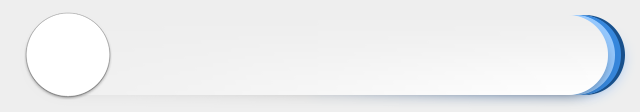
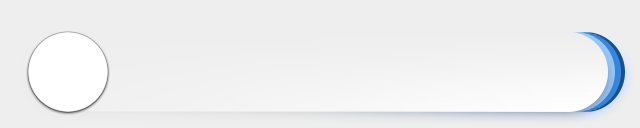
tune profilecard

diff --git a/EXFE/ProfileCard.m b/EXFE/ProfileCard.m
@@ -121,11 +121,11 @@
 - (void)drawContentView:(CGRect)r{
     CGRect b = [self bounds];
     // Rect caculation
-    int cardMargin = 13;
+    int cardMargin = 14;
     CGRect barnnerRect = CGRectMake(cardMargin, 16, b.size.width - cardMargin * 2, 40);
     
-    int avatarWidth = 42;
-    int avatarHeight = 42;
+    int avatarWidth = 40;
+    int avatarHeight = 40;
     CGRect avatarRect = CGRectMake(barnnerRect.origin.x, barnnerRect.origin.y, avatarWidth, avatarHeight);
     
     int paddingH = 8;
@@ -143,7 +143,7 @@
         [[UIImage imageNamed:@"portrait_default.png"] drawInRect:avatarRect];
     }
     
-    [[UIImage imageNamed:@"xlist_top.png"] drawInRect:CGRectMake(0, 9, CGRectGetWidth(b), CGRectGetHeight(b) - 9)];
+    [[UIImage imageNamed:@"xlist_top.png"] drawInRect:b];
     
     [[UIColor greenColor] set];
     CGContextRef currentContext = UIGraphicsGetCurrentContext();

diff --git a/EXFE/CrossesViewController.m b/EXFE/CrossesViewController.m
@@ -726,9 +726,9 @@
 - (CGFloat)tableView:(UITableView *)tableView heightForRowAtIndexPath:(NSIndexPath *)indexPath
 {
     if(indexPath.section == 0){
-        return 66;
+        return 64;
     }else {
-        return 90.0;
+        return 90;
     }
 }
 
